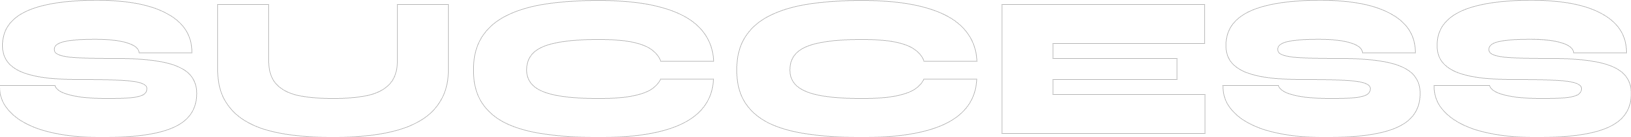
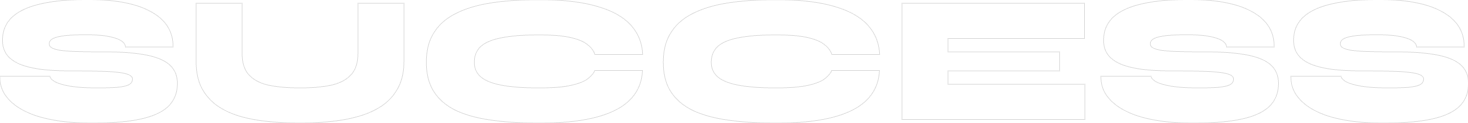
u8rotyreaty

diff --git a/css/style.css b/css/style.css
@@ -175,7 +175,7 @@ a.nav-link.sec-li-small2 {
 
 .sec-push-bg {
     background-color: #000;
-    padding-top: 250px;
+    padding-top: 280px;
     position: relative;
     padding-bottom: 60px;
 }
@@ -192,7 +192,7 @@ a.nav-link.sec-li-small2 {
 }
 
 .sec-push-bg::after {
-    content: " ";
+    content: "sport ";
     background-image: url(../images/sport.png);
     background-repeat: no-repeat;
     width: 139px;
@@ -200,6 +200,13 @@ a.nav-link.sec-li-small2 {
     position: absolute;
     left: 0;
     top: 250px;
+    color: rgba(0, 254, 120, 0.00);
+font-family: 'Syne';
+font-size: 200px;
+font-style: normal;
+font-weight: 800;
+line-height: normal;
+text-transform: uppercase;
 }
 
 .sec-push-bg::before {
@@ -207,7 +214,7 @@ a.nav-link.sec-li-small2 {
     background-image: url(../images/ess.png);
     background-repeat: no-repeat;
     width: 139px;
-    height: 1163px;
+    height: 1400px;
     position: absolute;
     right: 0;
     bottom: -520px;
@@ -356,7 +363,7 @@ a.nav-link.sec-li-small2 {
     line-height: 190%;
 }
 
-.sec-woo-bgg::after {
+.sec-woo-bgg::before {
     content: " ";
     background-image: url(../images/sport2.png);
     background-repeat: no-repeat;
@@ -364,7 +371,12 @@ a.nav-link.sec-li-small2 {
     height: 137px;
     position: absolute;
     right: 0;
+    z-index: 10;
     bottom: 43px;
+}
+.sec-img-boagyd{
+    position: relative;
+    z-index: 99;
 }
 
 .sec-woo-bgg {
@@ -376,7 +388,7 @@ a.nav-link.sec-li-small2 {
     background-image: url(../images/gallery-bgg.png);
     background-repeat: no-repeat;
     background-size: cover;
-    padding: 60px 0px;
+    padding: 70px 0px;
 }
 
 .sec-boo-slid-h {
@@ -506,7 +518,7 @@ a.nav-link.sec-li-small2 {
     content: " ";
     background-image: url(../images/Success.png);
     background-repeat: no-repeat;
-    width: 1061px;
+    width: 1500px;
     height: 137px;
     position: absolute;
     left: 0;
@@ -597,7 +609,7 @@ a.nav-link.sec-li-small2 {
 .sec-copy-p {
     color: #FFF;
     font-family: 'Roboto';
-    font-size: 20px;
+    font-size: 16px;
     font-style: normal;
     font-weight: 400;
     line-height: normal;
@@ -607,7 +619,7 @@ a.nav-link.sec-li-small2 {
     color: #FFF;
     text-align: right;
     font-family: 'Roboto';
-    font-size: 20px;
+    font-size: 16px;
     font-style: normal;
     font-weight: 400;
     text-align: right;

diff --git a/index.html b/index.html
@@ -98,7 +98,7 @@
     <!-- push your -->
     <div class="container-fluid  sec-push-bg">
         <div class="sec-space-left-right   sec-ppaaa">
-            <h3 class="sec-push-h">push your <br>
+            <h3 class="sec-push-h  ">push your <br>
                 limits forward</h3>
             <div class="container sec-colu-al">
                 <div class="row m-0 pb-5 align-items-center see-colum-v">
@@ -313,7 +313,7 @@
         <div class="sec-space-left-right  sec-ppaaa">
             <div class="container">
                 <div class="row m-0 align-items-center">
-                    <div class="col-lg-6 m-0">
+                    <div class="col-lg-6 m-0 sec-img-boagyd">
                         <img class="w-100" src="images/wooo.png" alt="">
                     </div>
                     <div class="col-lg-6">

diff --git a/css/owl.carousel.min.css b/css/owl.carousel.min.css
@@ -236,7 +236,7 @@
 }
 .owl-theme .owl-dots .owl-dot.active span, .owl-theme .owl-dots .owl-dot:hover span {
     background: transparent;
-    font-size: 32px;
+    font-size: 40px;
     font-family: 'Roboto';
     color: #036BB0;
 }
@@ -249,7 +249,7 @@
     position: relative;
     z-index: 99;
     margin-left: 46px !important;
-    margin-top: -79px !important;
+    margin-top: -87px !important;
 }
 .owl-theme .owl-dots, .owl-theme .owl-nav {
     text-align: left !important;
